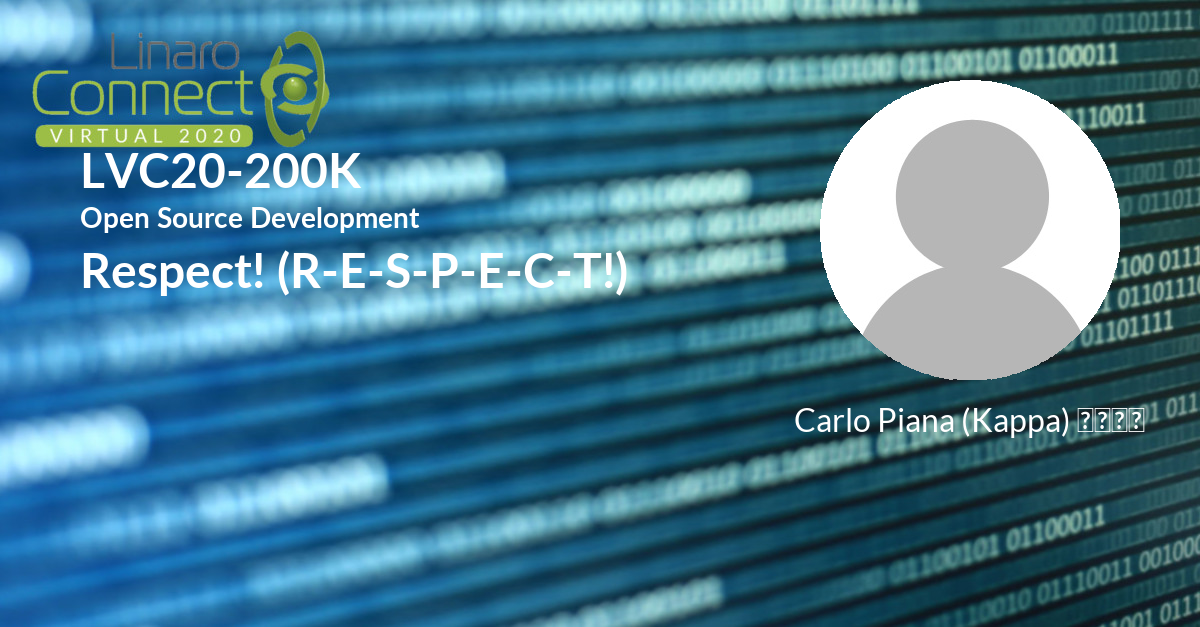
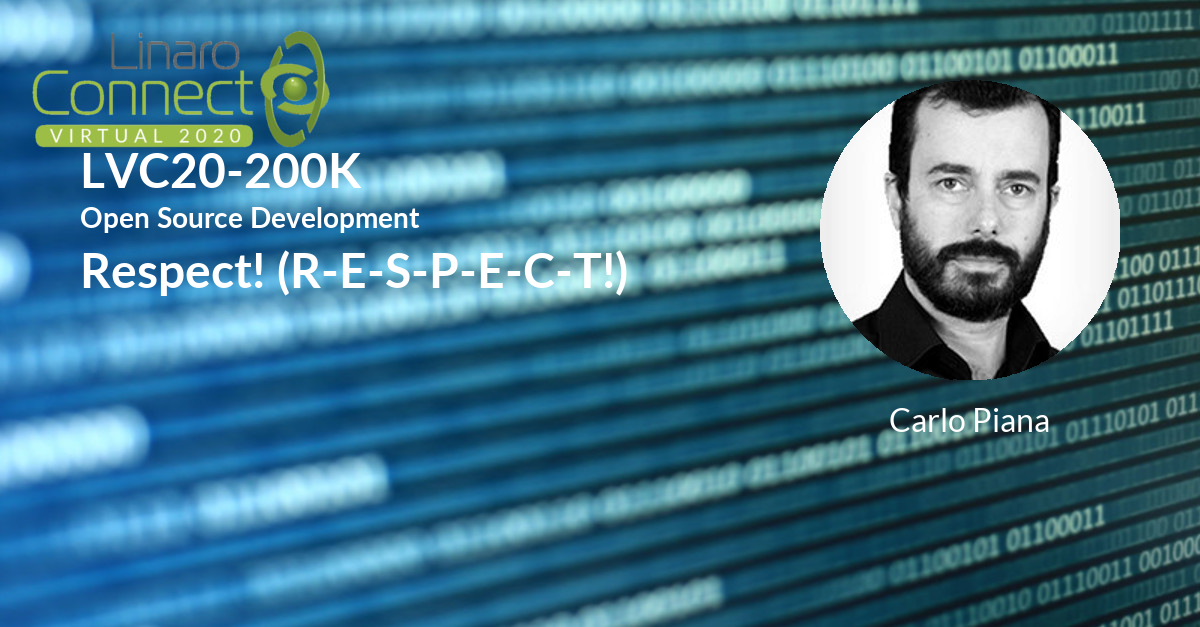
Session update for session-update-200917-2206

Changed region(s): [[0.7092, 0.1212, 0.925, 0.6061], [0.6475, 0.6364, 0.9558, 0.697]]

diff --git a/_posts/lvc20/sessions/2020-09-17-lvc20-200k.md b/_posts/lvc20/sessions/2020-09-17-lvc20-200k.md
@@ -14,12 +14,18 @@ session_slot:
   end_time: 2020-09-23 08:40
   start_time: 2020-09-23 08:15
 session_speakers:
-- speaker_bio: ''
-  speaker_company: ''
-  speaker_image: ''
-  speaker_name: Carlo Piana (Kappa) 🏴☠
-  speaker_position: ''
-  speaker_role: speaker
+- speaker_bio: Lawyer, with 25 years&#39; experience in IT, Carlo has been involved
+    in top class actions and litigation revolving around free and open source. Has
+    been for more than 10 years General Counsel (external) to the Free Software Foundation
+    Europe. Now he&#39;s serving in the IP&amp;Open Source Advisory team at UNTIL
+    (UN Initiative), is a partner of Open Chain, and a member of the legal team of
+    the FSFE, as well as of the Legal Network (world largest, non partizan forum discussing
+    Free and open source software).
+  speaker_company: Array
+  speaker_image: http://avatars.sched.co/f/18/10468627/avatar.jpg.320x320px.jpg?e08
+  speaker_name: Carlo Piana
+  speaker_position: Partner
+  speaker_role: attendee, speaker
 session_track: Open Source Development
 tag: session
 tags: Open Source Development

diff --git a/_posts/lvc20/sessions/2020-09-17-lvc20-210.md b/_posts/lvc20/sessions/2020-09-17-lvc20-210.md
@@ -26,7 +26,7 @@ session_speakers:
   speaker_image: http://avatars.sched.co/6/47/11406046/avatar.jpg.320x320px.jpg?fb1
   speaker_name: Pavel Macenauer
   speaker_position: NXP Semiconductors, Sr. Software Engineer
-  speaker_role: speaker
+  speaker_role: attendee, speaker
 session_track: Machine Learning/AI
 tag: session
 tags: Machine Learning/AI
